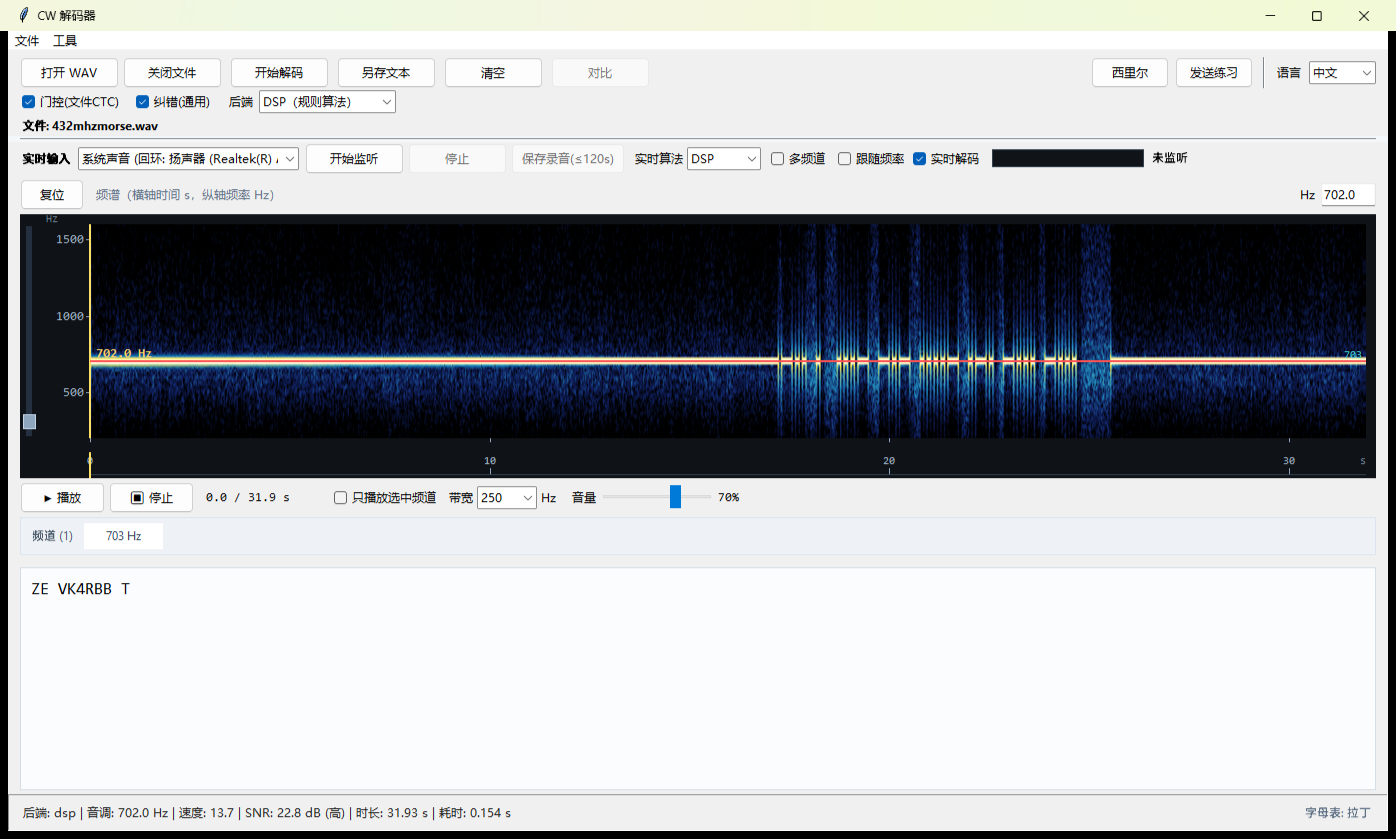
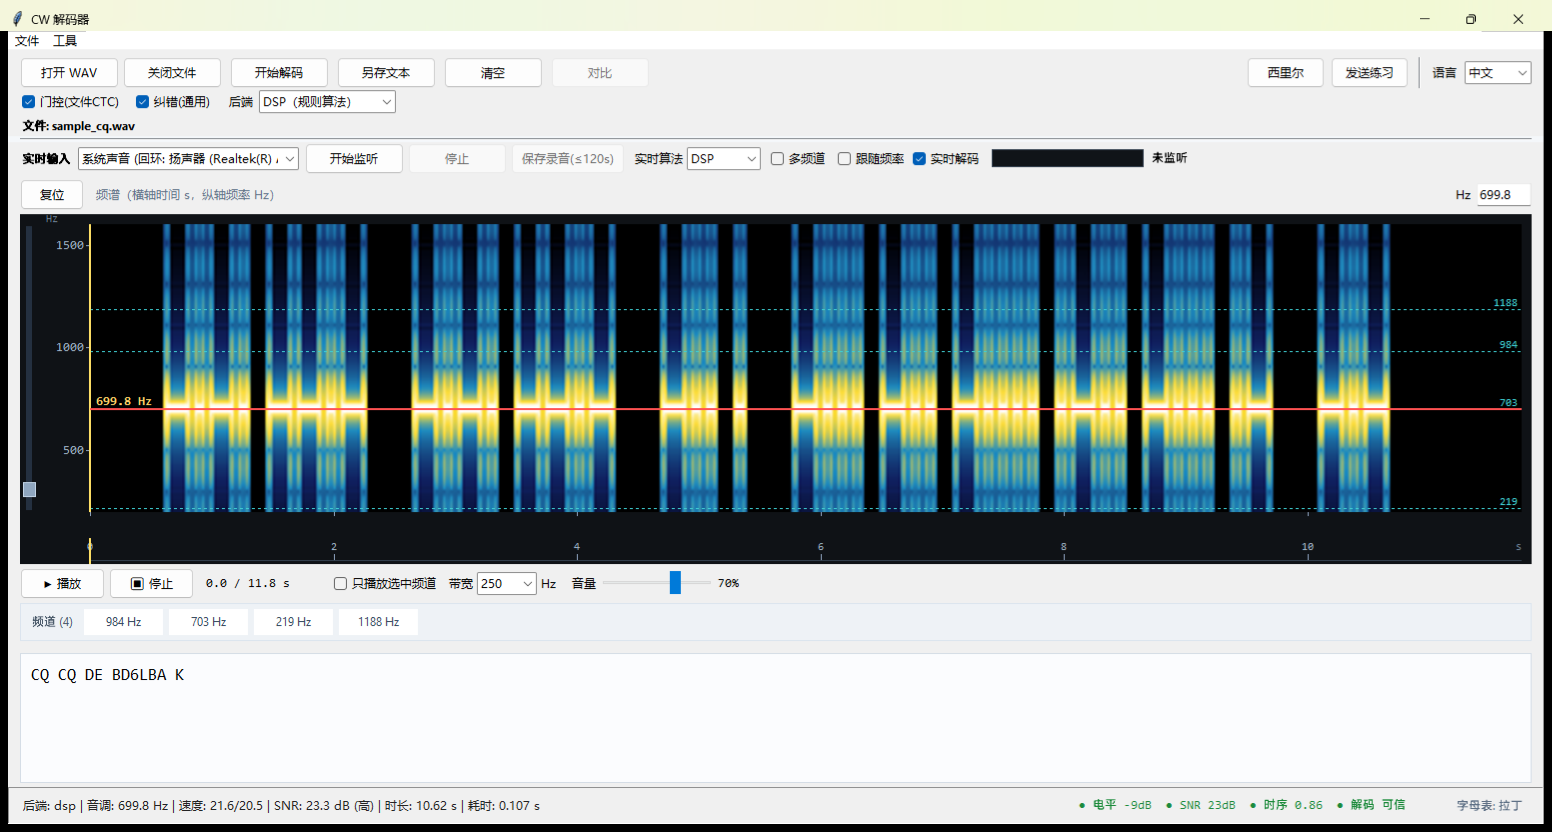
docs: 同步 v0.1.2 数据、术语与界面截图

diff --git a/docs/technical.md b/docs/technical.md
@@ -1,7 +1,11 @@
 # CW Decoder 技术说明
 
 > 本文档描述程序的算法、参数与实测数据，供想了解原理、二次开发或复现测试的人参考。
-> 版本对应 v0.1.0。项目地址：<https://github.com/thunder719x/cw-decoder>文中数值均为本机（Windows 11 / Python 3.12 / Realtek 板载声卡）实测。
+> 版本对应 **v0.1.2**（2026-11-28）。项目地址：<https://github.com/thunder719x/cw-decoder>
+> 文中数值均为本机（Windows 11 / Python 3.12 / Realtek 板载声卡）实测。
+>
+> 本次更新：俄语界面、启动最大化、停用单词替换、外部对比（multimon-ng）、
+> 质量灯校准改为可复现的 17 样本。
 
 ---
 
@@ -13,7 +17,7 @@
 4. 自动后端
 5. 实时解码
 6. 多频道扫描
-7. 纠错
+7. 后处理（纠错）
 8. 参数总表
 9. 测试方法与实测数据
 10. 已知限制与失败分析
@@ -369,6 +373,8 @@ hop_s 会随单次解码耗时增长（×2.5），避免解码跟不上采集
 | 字符边界 | 2.0 单位 | 1.8–3.2 | 点划内/间分界 |
 | 词边界 | 聚类自适应 | 3.8–18 | 词间隔分界 |
 | 最短解码时长 | 1.0 s | 0.4–2.0 | 太短不输出（防噪声） |
+| 门控·音调性 | 22 dB | 15–30 | 低于此值视为"不是 CW" |
+| 门控·规律性 | 0.45 | 0.30–0.60 | 低于此值结果置空（13 样本零误杀，0.60 会误杀 QSO） |
 | 实时 hop | ≥0.8 s | 自适应 | 重解频率 |
 | 音调锁定 | 两次 ±10 Hz | — | 防误锁 |
 | 跟随触发 | 3 s 无新文本 | 2–5 s | 灵敏度 |
@@ -449,9 +455,9 @@ CER（字符错误率）= 编辑距离(参考, 结果) / len(参考)
 | 速度 40 WPM（合成器） | 1.00 — 被「规律性 >= 0.45」门控清空（35 WPM 为 0.44、40 WPM 为 0.41；真实 40 WPM 素材为 1.00，见 9.5） |
 | 音调 400–1500 Hz | 0.00 |
 | SNR 20 … −5 dB（DSP） | 0.00 |
-| SNR −8 / −10 / −12 dB（CTC） | 0.31 / 0.00 / 0.15 |
+| SNR −8 / −10 / −12 dB（CTC） | 0.31 / 0.00 / 0.15（单次抽样，存在波动） |
 | 手键抖动 ±30% | 0.00 |
-| 冰力（Farnsworth）间隔 4 组 | 0.00 |
+| Farnsworth（慢速）间隔 4 组 | 0.00 |
 | 报文内停顿 2 s / 5 s | 0.00 |
 | 削顶 2.5 倍 | 0.00 |
 | 工频 + 8 dB 噪声 | 0.00 |
@@ -468,7 +474,7 @@ CER（字符错误率）= 编辑距离(参考, 结果) / len(参考)
 | 《诗篇》23（手键） | 30 s | 一致 |
 | Wikipedia 音频 | 53 s | 一致 |
 | 真实 QSO（SQ5VCO / ON7DQ） | 150 s | 一致 |
-| 比赛堆积（多台） | 178 s | 326 字，速度 35 WPM |
+| 比赛堆积（多台） | 178 s | 326 字（含空格），速度 35 WPM |
 
 ### 9.4 性能
 
@@ -483,40 +489,69 @@ CER（字符错误率）= 编辑距离(参考, 结果) / len(参考)
 
 ---
 
-### 9.5 真实公开素材：ARRL W1AW 练习报文（2026-11-27 评测）
+### 9.5 真实公开素材：ARRL W1AW 练习报文（2026-11-27 首测，11-28 复测）
 
 素材：arrl.org 官方 W1AW Code Practice 音频 + 官方文本（文本即发报内容，可作真值）。
 9 个文件，覆盖 5–40 WPM，合计约 1.1 万字符，单文件时长 3–35 分钟。
 
-| 名义速度 | 估计速度（wpm_eff） | 输出字数 | CER（DSP） | CER（auto） | CER（CTC） |
+| 名义速度 | 参考字符 | CER（DSP） | CER（auto） | CER（CTC） | 说明 |
 |---|---|---|---|---|---|
-| 5 WPM | 5.0 | 474 | **0.000** | 0.000 | — |
-| 10 WPM | 10.2 | 458 | **0.000** | 0.000 | — |
-| 13 WPM | 13.0 | 1069 | **0.000** | 0.000 | — |
-| 15 WPM | 15.0 | 561 | **0.000** | 0.000 | 0.002 |
-| 18 WPM | 18.0 | 3746 | **0.000** | — | — |
-| 20 WPM | 20.0 | 886 | **0.000** | 0.000 | 0.151 |
-| 30 WPM | 29.9 | 1257 | **0.000** | — | — |
-| 35 WPM | 34.9 | 1504 | **0.000** | 0.000 | 0.165 |
-| 40 WPM | 39.9 | 3116 | **0.000** | 0.000 | 0.033 |
+| 5 WPM | 367 | **0.000** | 0.000 | 0.000 | <15 WPM：CTC 回退到 DSP |
+| 10 WPM | 351 | **0.000** | 0.000 | 0.000 | 同上 |
+| 13 WPM | 836 | **0.000** | 0.000 | 0.000 | 同上 |
+| 15 WPM | 430 | **0.000** | 0.000 | 0.000 | CTC 真实输出 |
+| 18 WPM | 2999 | **0.000** | 0.000 | 0.585 | 37 分钟长文件 |
+| 20 WPM | 690 | **0.000** | 0.000 | 0.135 | |
+| 30 WPM | 1010 | **0.000** | 0.000 | 0.328 | |
+| 35 WPM | 1186 | **0.000** | 0.000 | 0.155 | |
+| 40 WPM | 2494 | **0.000** | 0.000 | 0.031 | |
+| **合计** | **10363** | **0.000** | 0.000 | — | 0 个错误 |
 
 **观察**
 
 ```
 ① 速度估计准确：wpm_eff 与名义值误差 ≤ 0.2 WPM（9 个文件全部命中）
-② 干净信号：DSP 明显优于 CTC（CTC 在干净长文上有删字/并字，CER 0.03–0.17）
-   → 自动后端选 DSP 是对的
+② 干净信号：DSP 明显优于 CTC（CTC 0.031–0.585，最好一档也只有 0.031）
+   → 自动后端在 9 个文件上全部选 DSP（reason=fast）
+   → 但 CTC 的价值在弱信号/QSB（见 §9.2），不能据此说它"没用"
 ③ 旧版的 10 个错误全部来自"单词替换"，停用后为 0：
    · 单字母误判：PUT → ABT、PER → ABT、QSO → QSY、HSS → HIS
    · 词边界挪位：KNOW → "KN OW"、DROP → "DR OP"
-④ 真实 40 WPM 文件 CER 0.001，而合成 40 WPM 用例 CER 1.00
+④ 真实 40 WPM 文件 CER 0.000，而合成 40 WPM 用例 CER 1.00
    → 原因：合成波形上升/下降沿较软，35/40 WPM 时"规律性"降到 0.44 / 0.41，
      被 decode_gated 的 min_regularity = 0.45 门控清空（文本本身是解对的）
    → 真实素材规律性为 1.00，因此不受影响
    → 属于"门限卡在边界"的已知现象：高速 + 软键控会被误拦
 ```
 
-**可复现**：音频与文本在 `out/_web/arrl/`，评测脚本 `out/_web/eval1.py`。
+**可复现**：音频/文本与评测脚本随投稿材料归档（`语料/arrl/`、`04_可复现/eval_arrl.py`、
+`eval_ctc.py`），不随代码仓库发布（ARRL 素材版权）。
+
+---
+
+### 9.6 外部对比：multimon-ng（2026-11-28）
+
+同一批 9 个 ARRL 文件，用常用开源解码器 multimon-ng 做参照。
+
+**设置**：`-t raw -a MORSE_CW -q`（默认 dit/gap/threshold，未手工调优）
+**输入**：先由 ffmpeg 转 22050 Hz 单声道 s16le raw（它不直接吃 8k WAV）
+
+| 速度 | 本实现 CER | multimon-ng CER |
+|---|---|---|
+| 5 / 10 / 13 / 15 / 18 / 20 WPM | 0.000 | 0.000 |
+| 30 WPM | 0.000 | 0.044 |
+| 35 WPM | 0.000 | 0.159 |
+| 40 WPM | 0.000 | 0.820 |
+| **加权平均** | **0.0000** | **0.2197** |
+
+**说明**
+
+```
+· 40 WPM 的退化不是"我们故意调坏"：试过 -d/-g 按点长匹配、-x 关自动阈值，
+  CER 仍在 0.82–0.93 之间
+· multimon-ng 面向交互式实时使用，不是为批处理录音棚素材设计的
+· 因此这一节只作为"参照点"，不用于得出"谁更强"的结论
+```
 
 ---
 
@@ -572,12 +607,16 @@ CER（字符错误率）= 编辑距离(参考, 结果) / len(参考)
 **为什么不用"单字词比例"单独判定**：比赛风格（`R R R K K 5NN TU`）单字多但完全正确，
 早期版本会误报；改为"先看有没有有效词（呼号/常用词/K/R）"后，误报消失。
 
-**校准数据**（57 个样本：合成 35 / ARRL 4 / 真实 5 / 麦克风 11 / 对抗样本 2）
+**校准数据**（17 个有真值样本，可复现）
 
 ```
+构成：9 个 ARRL 文件 + 8 个合成（20/30 WPM × SNR 20/5/0/−5 dB）
 漏报（灯绿但结果错）：0
-误报（灯红但结果对）：1（CW_massive 多台堆积，文本确有 13.5% 的 ?）
+误报（灯红但结果对）：0
+脚本：投稿材料 06_待办与风险/附录_分析脚本/calibrate_lights.py
 ```
+
+> 旧稿记录的"57 个样本"没有随材料保留，已替换为上面这组可复现数据。
 
 ### 11.2 实时模式（3 灯）
 
@@ -652,7 +691,7 @@ CER（字符错误率）= 编辑距离(参考, 结果) / len(参考)
 ### 11.3 已知局限
 
 ```
-· 阈值来自 71 + 57 个样本的经验校准，不是理论最优
+· 阈值来自 17 个有真值样本的可复现校准（另加 13 个样本的阈值敏感性实验），不是理论最优
 · "解码"灯是文本级启发式，麦克风11（点长双峰）这类
   "指标正常但结果错"的样本已能被标红，但不保证 100%
 · SNR 参考带宽 180 Hz；与 500 Hz 参考的读数不可直接比较（差约 4.4 dB）

diff --git a/README.md b/README.md
@@ -22,11 +22,11 @@
 | **跟随换台** | 对方换频率时自动跟过去（可关，默认关） |
 | **多频道扫描** | 一个频段里同时发现多个 CW 信号，列出 频率 / 强度 / 速度 / 呼号 |
 | **俄文支持** | 32 个西里尔字母的俄文摩斯表（Ё 与 Е 同码，按 Е 处理），整段按西里尔输出 |
-| **纠错** | 码元空间距离 + 呼号保护 + 英文白名单，只修“多/少一个码元” |
+| **后处理** | 只做空格修复（粘连词拆开）；单词替换已实测无收益并停用 |
 | **发报练习** | 18 条模板（中/英/俄），可调速度与音调，试听并保存 WAV |
 | **瀑布图 / 播放** | 滚动瀑布、频谱缩放、按频道回放、时间轴跳转 |
 | **信号质量提示** | 文件模式：电平 / SNR / 时序 / 解码；实时模式：信号 / 电平 / SNR；停止监听后数值冻结保留（标「已停止 ·（保持）」），复位时清空；悬停看阈值与明细 |
-| **界面语言** | 中文 / English / Русский 一键切换（117 项文案，含悬停说明） |
+| **界面语言** | 中文 / English / Русский 一键切换（132 项文案，含悬停说明） |
 | **可移植** | 纯 Python + 本地模型，不依赖云服务 |
 
 ### 实时 + 多频道
@@ -156,15 +156,16 @@ Windows 也可以直接双击 `run.bat`：它会依次尝试 `python\python.exe`
 
 | 场景 | DSP | CTC |
 |---|---|---|
-| 干净信号（10–40 WPM） | **0.00** | 0.00（偶尔词首多一个字母） |
+| 干净信号（10–40 WPM） | **0.00** | 0.03–0.59（长文件更差，见技术文档 §9.5） |
 | 弱信号 −8 dB | 0.31 | **0.00** |
 | 弱信号 −10 dB | 3.46（崩） | **0.00** |
 | **QSB 慢衰落** | **0.54** | **0.00** |
 | **QSB 快衰落** | **1.00** | **0.00** |
-| 手键慢速（<15 WPM） | **正常** | 系统性乱码 |
+| 手键慢速（<15 WPM） | **正常** | 自动回退到 DSP |
 | 连续发报（几乎无词间隔） | 单词粘连 | **能补空格** |
 
 （数字是 CER，字符错误率，越低越好；0.00 = 与原文完全一致）
+（CTC 的弱信号数字来自合成/单一素材抽样，样本量有限）
 
 **怎么选**
 
@@ -258,7 +259,6 @@ Windows 也可以直接双击 `run.bat`：它会依次尝试 `python\python.exe`
 · 两台同频 → 物理上分不开
 · 极弱信号（< −14 dB）→ 抄不下来
 · 手键极不匀（> ±35%）→ 开始出错
-· CTC 对慢速手键（<15 WPM）系统性乱码
 · 强干扰段（QRM）→ 无法避免，人耳也难
 · 衰落（QSB）→ DSP 会成片丢字，切 CTC 可解决
 · 连续两个呼号粘连（ON7DQON7DQ）→ 不猜，保持原样
@@ -266,7 +266,8 @@ Windows 也可以直接双击 `run.bat`：它会依次尝试 `python\python.exe`
 · FSK 调制的 CW → 原理不同，不支持
 · 数字为主的报文 + Farnsworth 极慢（有效 5 WPM）时，空格可能错位
   （例如 `5NN 001 TU` 显示成 `5 N N 0 0 1 T U`；字符本身不会错）
-· CTC 在低于 15 WPM 时会成片乱码 → 程序会自动改用 DSP，状态栏会标注
+· CTC 在 <15 WPM 时会成片乱码 → 程序按设计自动改用 DSP，并在状态栏标注
+  （所以慢速场景看到的是 DSP 的结果，不是 CTC 的）
 ```
 
 ---

diff --git a/docs/packaging.md b/docs/packaging.md
@@ -64,11 +64,11 @@ pyinstaller ^
 
 **产物**：`dist/cw-decoder/`（整个文件夹压成 zip 即为 Release 附件）
 
-**实测体积**（v0.1.0，Python 3.12 / PyInstaller 6.22）
+**实测体积**（v0.1.2，Python 3.12 / PyInstaller 6.22）
 
 ```
-解压后：1160 个文件，191 MB
-zip：   78 MB
+解压后：1160 个文件，191 MB（v0.1.2 实测）
+zip：   78.1 MB（SHA256 见 Release 说明）
 启动：  1.5 秒（首次 2.2 秒）
 内存：  约 125 MB
 ```
@@ -115,10 +115,10 @@ python=3.12.15 frozen=True
 ## 5. 发布（GitHub Releases）
 
 ```
-1. 打 tag：git tag v0.1.0 && git push origin v0.1.0
+1. 打 tag：git tag v0.1.2 && git push origin v0.1.2
 2. GitHub → Releases → Draft a new release
-3. 选择 tag，标题 v0.1.0，粘贴 CHANGELOG 对应段落
-4. 上传 zip（cw-decoder-v0.1.0-win64.zip）
+3. 选择 tag，标题 v0.1.2，粘贴 CHANGELOG 对应段落
+4. 上传 zip（cw-decoder-v0.1.2-win64.zip）
 5. 发布
 ```
 
